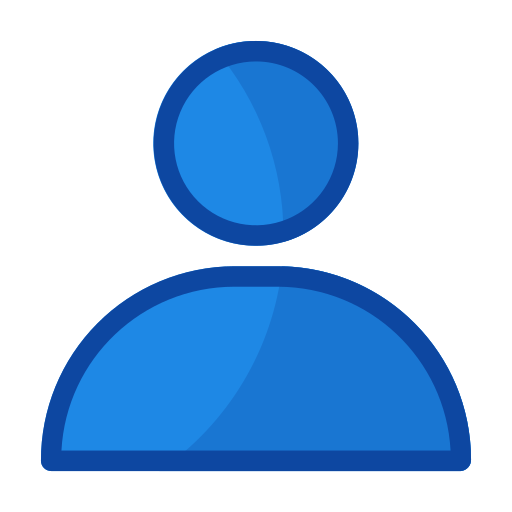
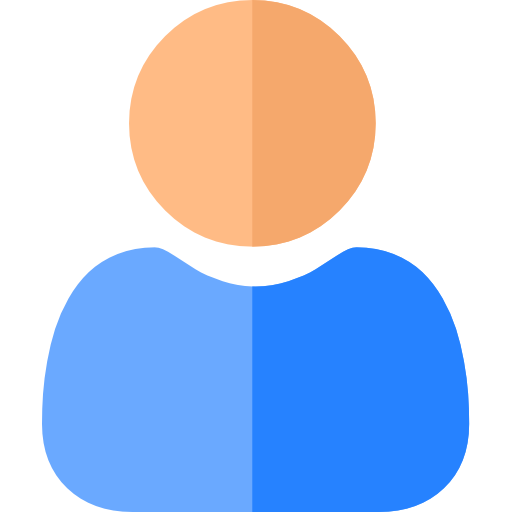
Will-Go portal acudiente: nueva imagen de estudiante, sin fondo blanco
Claude-Session: https://claude.ai/code/session_01TVhVekfHYvfHUdvasWrSf1

diff --git a/src/app/layouts/public-layout/pages/acudiente-will-go/panel-acudiente.ts b/src/app/layouts/public-layout/pages/acudiente-will-go/panel-acudiente.ts
@@ -80,7 +80,7 @@ import { ProcesandoRondaComponent } from '../../../private-layout-will-go/proces
                   <div class="absolute -right-10 -top-10 w-40 h-40 rounded-full bg-white/10" aria-hidden="true"></div>
                   <div class="absolute right-10 -bottom-12 w-28 h-28 rounded-full bg-white/10" aria-hidden="true"></div>
                   <div class="relative flex items-center gap-4">
-                    <div class="w-14 h-14 shrink-0 rounded-2xl bg-white flex items-center justify-center shadow p-1.5" aria-hidden="true">
+                    <div class="w-14 h-14 shrink-0 flex items-center justify-center" aria-hidden="true">
                       <img src="assets/images/will-go/estudiante.png" alt="" class="w-full h-full object-contain">
                     </div>
                     <div class="min-w-0">
